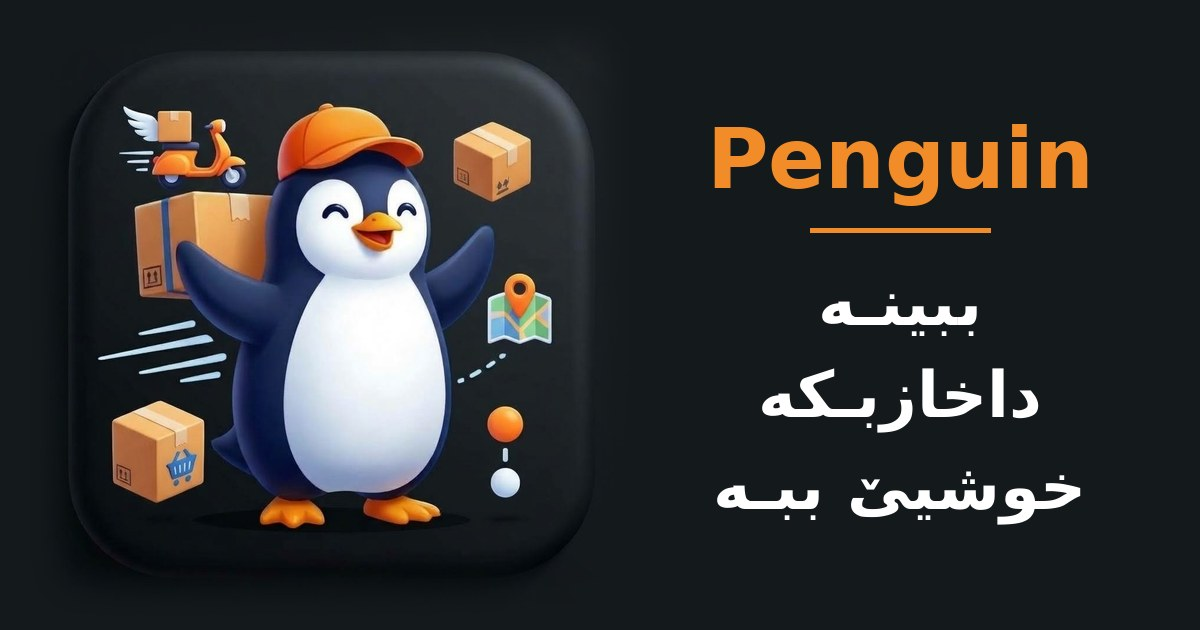
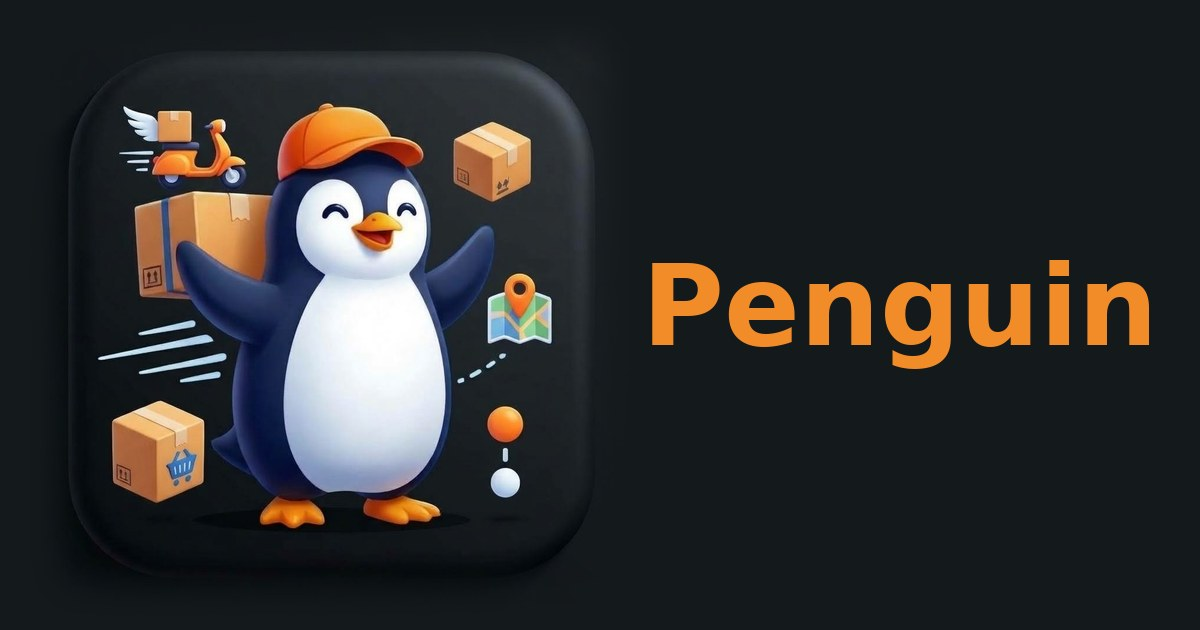
Add files via upload

diff --git a/index.html b/index.html
@@ -4,11 +4,9 @@
 <meta charset="utf-8">
 <meta name="viewport" content="width=device-width,initial-scale=1,viewport-fit=cover">
 <meta name="theme-color" content="#f6f7fa">
-<meta name="description" content="ببینـە ، داخازبـکە ، خوشیێ ببـە">
 <meta property="og:type" content="website">
 <meta property="og:site_name" content="Penguin">
 <meta property="og:title" content="Penguin">
-<meta property="og:description" content="ببینـە ، داخازبـکە ، خوشیێ ببـە">
 <meta property="og:url" content="https://penguin-dzb.pages.dev/">
 <meta property="og:image" content="https://penguin-dzb.pages.dev/og-image.jpg">
 <meta property="og:image:type" content="image/jpeg">
@@ -16,7 +14,6 @@
 <meta property="og:image:height" content="630">
 <meta name="twitter:card" content="summary_large_image">
 <meta name="twitter:title" content="Penguin">
-<meta name="twitter:description" content="ببینـە ، داخازبـکە ، خوشیێ ببـە">
 <meta name="twitter:image" content="https://penguin-dzb.pages.dev/og-image.jpg">
 <meta name="mobile-web-app-capable" content="yes">
 <meta name="apple-mobile-web-app-capable" content="yes">
@@ -576,7 +573,7 @@ applySched();setInterval(applySched,30000);
 
 /* ===== services ===== */
 VIEWS.push("services");
-Object.assign(UI.ck,{svc:"خزمەتگوزاری",dT:"نرخێ دۆلارێ",pT:"کاتێن نڤێژێ",dBuy:"کڕین",dSell:"فرۆتن",iqd:"د.ع",upd:"نوێکرنەوە: ",na:"ئێستا بەردەست نینە",p:["سپێدە","ڕۆژهەڵاتن","نیڤڕۆ","ئێڤار","مەغریب","عیشا"]});
+Object.assign(UI.ck,{svc:"خزمەتگوزاری",dT:"بهایێ دۆلاری",pT:"دەمێن نڤێژان",dBuy:"کڕین",dSell:"فرۆتن",iqd:"د.ع",upd:"دووماهیک نووکرن: ",na:"ئێستا بەردەست نینە",p:["سپێدە","ڕۆژهەڵاتن","نیڤڕۆ","ئێڤار","مەغریب","عیشا"]});
 Object.assign(UI.ar,{svc:"الخدمات",dT:"سعر الدولار",pT:"أوقات الصلاة",dBuy:"شراء",dSell:"بيع",iqd:"د.ع",upd:"آخر تحديث: ",na:"غير متوفر حالياً",p:["الفجر","الشروق","الظهر","العصر","المغرب","العشاء"]});
 Object.assign(UI.en,{svc:"Services",dT:"Dollar rate",pT:"Prayer times",dBuy:"Buy",dSell:"Sell",iqd:"IQD",upd:"Updated: ",na:"Not available right now",p:["Fajr","Sunrise","Dhuhr","Asr","Maghrib","Isha"]});
 const KM=["کانوونا دووێ","شوبات","ئادار","نیسان","ئایار","حوزەیران","تەموز","ئاب","ئەیلوول","تشرینا ئێکێ","تشرینا دووێ","کانوونا ئێکێ"],KD=["یەکشەمب","دووشەمب","سێشەمب","چوارشەمب","پێنجشەمب","هەینی","شەمبی"];

diff --git a/sw.js b/sw.js
@@ -1,4 +1,4 @@
-const CACHE='penguin-v7';
+const CACHE='penguin-v8';
 self.addEventListener('install',()=>self.skipWaiting());
 self.addEventListener('activate',e=>e.waitUntil(caches.keys().then(ks=>Promise.all(ks.filter(k=>k!==CACHE).map(k=>caches.delete(k)))).then(()=>self.clients.claim())));
 self.addEventListener('fetch',e=>{const u=new URL(e.request.url);if(e.request.method!=='GET'||u.pathname.startsWith('/api'))return;e.respondWith(fetch(e.request).then(r=>{const c=r.clone();caches.open(CACHE).then(x=>x.put(e.request,c));return r}).catch(()=>caches.match(e.request)))});
